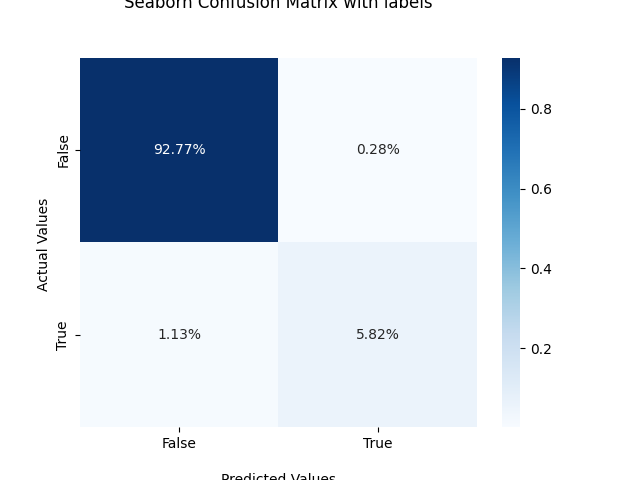
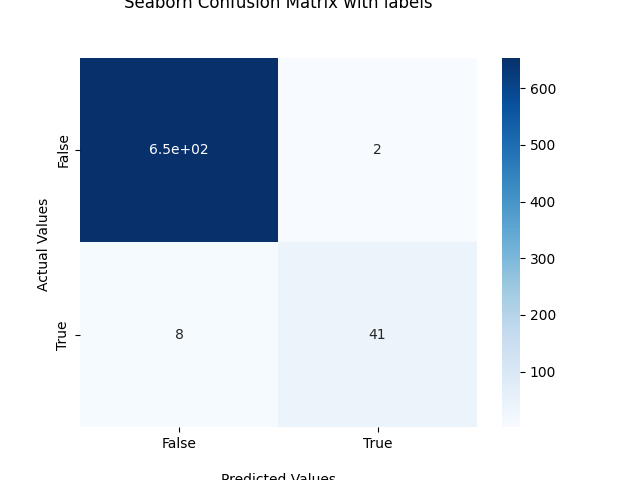
added predictions folder

diff --git a/main.py b/main.py
@@ -90,8 +90,7 @@ print(classification_report(actual_class_labels,predicted_class_labels,target_na
 cf_matrix = confusion_matrix(actual_class_labels, predicted_class_labels)
 
 #Visualization of Confusion Matrix 
-ax = sns.heatmap(cf_matrix/np.sum(cf_matrix), annot=True, 
-            fmt='.2%', cmap='Blues')
+ax = sns.heatmap(cf_matrix, annot=True, cmap='Blues')
 
 ax.set_title('Seaborn Confusion Matrix with labels\n\n');
 ax.set_xlabel('\nPredicted Values')
@@ -105,6 +104,7 @@ ax.yaxis.set_ticklabels(['False','True'])
 fig = ax.get_figure()
 fig.savefig('confusion_matrix_sample.png')
 
+print(predicted_class_labels)
 tn, fp, fn, tp = confusion_matrix(actual_class_labels, predicted_class_labels).ravel()
 specificity = tn / (tn+fp)
 print('\n Specifity Score :',str(specificity))
@@ -113,3 +113,15 @@ confidence_score=statistics.mean(probs)-statistics.variance(probs)
 confidence_score=round(confidence_score, 3)
 print ('\n The Probablity of Confidence of the Classifier: \t'+str(confidence_score)+'\n')    
 
+
+#Saving and analyzing classified values:
+for i,actual_label in enumerate(actual_class_labels):
+        if actual_label == 1:
+                if predicted_class_labels[i]==1:
+                        with open('predictions/true_positive/text{i}','w') as f:
+                                f.write(tst_data[i])
+                else:
+                        with open('predictions/false_negative/text{i}','w') as f:
+                                f.write(tst_data[i])
+        else:
+                pass
